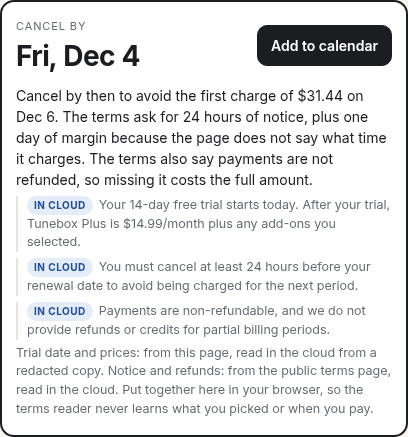
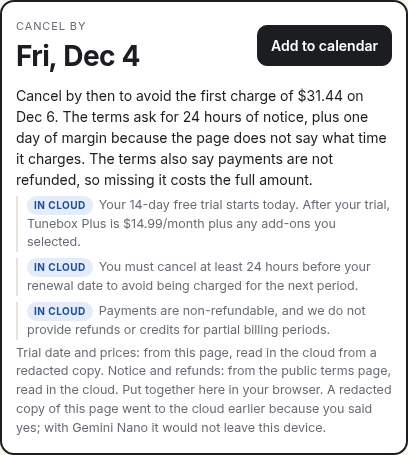
Honest hybrid wording: per-fact sources, privacy line depends on how the page was read, wider notice patterns, bills counted by date, receipt fingerprints the parts Nano read; real-page counts for the new cards

Changed region(s): [[0.0294, 0.0297, 0.9706, 0.9519], [0.6176, 0.0892, 0.9706, 0.1487]]

diff --git a/web/src/deadline.ts b/web/src/deadline.ts
@@ -6,25 +6,29 @@ import { redact } from './redact';
 // refund rule come from the public terms page. The cloud never sees the
 // checkout page, so it never learns when you will be charged or how much.
 
+// from: 'gemini' when the line is a verified quote Gemini picked, 'basic' when
+// it was found by pattern in the terms text. Set per fact.
 export interface TermsFacts {
-  notice?: { hours: number; quote: string };
-  noRefund?: { quote: string };
-  from: 'gemini' | 'basic'; // gemini: a verified quote Gemini picked; basic: found by pattern in the terms text
+  notice?: { hours: number; quote: string; from: 'gemini' | 'basic' };
+  noRefund?: { quote: string; from: 'gemini' | 'basic' };
 }
 
 const WORD_NUM: Record<string, number> = { one: 1, two: 2, three: 3, four: 4, five: 5, six: 6, seven: 7, ten: 10, fourteen: 14, thirty: 30 };
-const NOTICE = /at least (\d+|one|two|three|four|five|six|seven|ten|fourteen|thirty)\s+(business days?|days?|hours?)\s+(?:before|prior to|in advance of)/i;
+const N = '(\\d+|one|two|three|four|five|six|seven|ten|fourteen|thirty)\\s+(?:\\(\\d+\\)\\s+)?(business days?|days?|hours?)';
+// "at least 24 hours before", "no later than 3 days prior to", or "30 days' notice".
+const NOTICE = new RegExp(`(?:at least|no later than|no less than|a minimum of)\\s+${N}\\s+(?:before|prior to|in advance)|${N}['’]?s?\\s+(?:written\\s+|advance\\s+|prior\\s+)?notice`, 'i');
 const NO_REFUND = /non-?refundable|no refunds?\b|not (?:be )?refund(?:ed|able)|do not (?:provide|offer|give) refunds/i;
 
 function sentences(text: string): string[] {
   return text.split(/(?<=[.!?])\s+|\n+/).map((s) => s.trim()).filter((s) => s.length > 8 && s.length < 400);
 }
 
-function noticeIn(s: string): TermsFacts['notice'] {
+function noticeIn(s: string): { hours: number; quote: string } | undefined {
   const m = s.match(NOTICE);
   if (!m) return undefined;
-  const n = /^\d+$/.test(m[1]) ? Number(m[1]) : WORD_NUM[m[1].toLowerCase()];
-  const unit = m[2].toLowerCase();
+  const num = m[1] ?? m[3];
+  const n = /^\d+$/.test(num) ? Number(num) : WORD_NUM[num.toLowerCase()];
+  const unit = (m[2] ?? m[4]).toLowerCase();
   // Business days are counted as calendar days plus a margin, to stay safe.
   const hours = unit.startsWith('hour') ? n : unit.startsWith('business') ? Math.ceil(n * 7 / 5) * 24 : n * 24;
   return { hours, quote: s };
@@ -35,15 +39,14 @@ function noticeIn(s: string): TermsFacts['notice'] {
 export function termsFacts(termsText: string, geminiQuotes: string[]): TermsFacts {
   const page = normalize(termsText);
   const real = geminiQuotes.filter((q) => q.trim().length > 8 && page.includes(normalize(q)));
-  const pick = (list: string[]) => {
-    const notice = list.map(noticeIn).find(Boolean);
+  const pick = (list: string[], from: 'gemini' | 'basic') => {
+    const n = list.map(noticeIn).find(Boolean);
     const nr = list.find((s) => NO_REFUND.test(s));
-    return { notice, noRefund: nr ? { quote: nr } : undefined };
+    return { notice: n ? { ...n, from } : undefined, noRefund: nr ? { quote: nr, from } : undefined };
   };
-  const g = pick(real);
-  const b = pick(sentences(termsText));
-  const facts: TermsFacts = { notice: g.notice ?? b.notice, noRefund: g.noRefund ?? b.noRefund, from: g.notice || g.noRefund ? 'gemini' : 'basic' };
-  return facts;
+  const g = pick(real, 'gemini');
+  const b = pick(sentences(termsText), 'basic');
+  return { notice: g.notice ?? b.notice, noRefund: g.noRefund ?? b.noRefund };
 }
 
 // The last day to cancel. The page never says what time the charge happens,

diff --git a/web/src/panel.ts b/web/src/panel.ts
@@ -170,7 +170,7 @@ async function readOnDevice() {
       signal,
       onPart: (i, n) => { if (n > 1) status(`Long page, reading it in ${n} parts on your device: part ${i}...`); },
     }));
-    await record({ what: 'Checkout page', where: read.source === 'in_cloud' ? 'in_cloud' : 'on_device', text: pageToPrompt(current, 20000), requests, personal: current.personal });
+    await record({ what: read.parts > 1 ? `Checkout page, ${read.parts} parts` : 'Checkout page', where: read.source === 'in_cloud' ? 'in_cloud' : 'on_device', text: read.prompts.join('\n\n'), requests, personal: current.personal });
     renderLedger();
     const secs = ((performance.now() - t0) / 1000).toFixed(1);
     const where = read.source === 'in_cloud' ? 'in_cloud' : 'on_device';
@@ -473,10 +473,14 @@ function renderDeadline() {
     qs.append(b);
   };
   add(trial.quote, trial.source);
-  const termsSource = terms?.facts.from === 'gemini' ? terms.source : 'rules';
-  if (notice) add(notice.quote, termsSource);
-  if (terms?.facts.noRefund) add(terms.facts.noRefund.quote, termsSource);
-  $('dlHow').textContent = `Trial date and prices: from this page, ${WHERE_WORDS[trial.source]}. Notice and refunds: ${terms ? 'from the public terms page, read in the cloud' : 'not read yet'}. Put together here in your browser, so the terms reader never learns what you picked or when you pay.`;
+  if (notice) add(notice.quote, notice.from === 'gemini' ? terms!.source : 'rules');
+  if (terms?.facts.noRefund) add(terms.facts.noRefund.quote, terms.facts.noRefund.from === 'gemini' ? terms.source : 'rules');
+  const privacy = trial.source === 'on_device'
+    ? 'Put together here in your browser, so the cloud never saw what you picked or when you pay.'
+    : trial.source === 'in_cloud'
+      ? 'Put together here in your browser. A redacted copy of this page went to the cloud earlier because you said yes; with Gemini Nano it would not leave this device.'
+      : 'Put together here in your browser.';
+  $('dlHow').textContent = `Trial date and prices: from this page, ${WHERE_WORDS[trial.source]}. Notice and refunds: ${terms ? 'from the public terms page, read in the cloud' : 'not read yet'}. ${privacy}`;
 }
 
 function downloadIcs() {
@@ -484,7 +488,7 @@ function downloadIcs() {
   if (!trial?.convertsOn || !page) return;
   const fy = firstYear(findings, page);
   const by = cancelBy(trial.convertsOn, terms?.facts.notice);
-  const site = new URL(page.url).hostname || 'this site';
+  const site = isOurDemo(page.url) ? 'Tunebox (demo store)' : (new URL(page.url).hostname || 'this site');
   const quotes = [trial.quote, terms?.facts.notice?.quote, terms?.facts.noRefund?.quote].filter(Boolean) as string[];
   const ics = icsFor({ site, cancelBy: by, convertsOn: trial.convertsOn, firstBill: fy ? money(fy.firstBill) : (trial.amount ?? ''), quotes });
   const a = document.createElement('a');

diff --git a/web/src/hybrid.test.ts b/web/src/hybrid.test.ts
@@ -29,6 +29,12 @@ function cloudRead(): RawFinding[] {
 const termsText = () => new JSDOM(read('../public/terms.html')).window.document.body.textContent!.replace(/\s+/g, ' ');
 
 describe('first-year cost', () => {
+  it('counts only the bills inside the first 12 months', () => {
+    const page = { url: 'https://x.test/', title: 't', text: 'Your 3-month free trial starts today. After your trial, it is $10.00/month.', capturedAt: '2026-11-22T15:00:00.000Z', checkboxes: [], links: [] } as PageSnapshot;
+    const fy = firstYear(verifyFindings(ruleFindings(page), page, 'rules'), page)!;
+    expect(fy.lines[0].count).toBe(9);
+    expect(fy.total).toBe(90);
+  });
   it('reads periods from the words', () => {
     expect(periodFromText('+$3.99 each month')).toBe('month');
     expect(periodFromText('We add $2.49 to every bill')).toBe('bill');
@@ -55,15 +61,25 @@ describe('first-year cost', () => {
 });
 
 describe('cancel-by date', () => {
+  it('reads other ways of writing the notice, and not reminders', () => {
+    const t = (x: string) => termsFacts(x + ' Filler sentence to make it long enough.', []).notice?.hours;
+    expect(t('Cancel no later than 48 hours before renewal.')).toBe(48);
+    expect(t('We need 30 days\' written notice to cancel.')).toBe(720);
+    expect(t('Give three (3) business days notice.')).toBe(120);
+    expect(t('We will remind you 7 days before your trial ends.')).toBeUndefined();
+  });
   it('finds the notice and refund lines on the demo terms page', () => {
     const facts = termsFacts(termsText(), []);
     expect(facts.notice?.hours).toBe(24);
     expect(facts.noRefund?.quote).toMatch(/non-refundable/);
-    expect(facts.from).toBe('basic');
+    expect(facts.notice?.from).toBe('basic');
   });
   it('uses a quote from Gemini only if it is really on the terms page', () => {
     expect(termsFacts(termsText(), ['You must cancel at least 7 days before your renewal date.']).notice?.hours).toBe(24);
-    expect(termsFacts(termsText(), ['You must cancel at least 24 hours before your renewal date to avoid being charged for the next period.']).from).toBe('gemini');
+    const g = termsFacts(termsText(), ['You must cancel at least 24 hours before your renewal date to avoid being charged for the next period.']);
+    expect(g.notice?.from).toBe('gemini');
+    // The refund line was not quoted by Gemini, so it keeps its own label.
+    expect(g.noRefund?.from).toBe('basic');
   });
   it('keeps the notice plus one day of margin', () => {
     expect(cancelBy('2026-12-06', { hours: 24 })).toBe('2026-12-04');

diff --git a/web/src/cost.ts b/web/src/cost.ts
@@ -63,7 +63,21 @@ export function firstYear(findings: Finding[], page: PageSnapshot): FirstYear | 
   if (!base) return undefined;
   const basePeriod = periodOf(base, page);
   if (!basePeriod || basePeriod === 'once' || basePeriod === 'bill') return undefined;
-  const bills = PER_YEAR[basePeriod];
+  // Bills that fall inside the 12 months from today, starting when the trial
+  // ends (or today). A 3-month trial leaves 9 monthly bills in the first year.
+  const start = trial?.convertsOn ? new Date(trial.convertsOn + 'T12:00:00') : new Date(page.capturedAt);
+  const end = new Date(page.capturedAt); end.setFullYear(end.getFullYear() + 1);
+  const countIn = (p: Exclude<Period, 'bill' | 'once'>) => {
+    let n = 0; const d = new Date(start.getTime());
+    while (d < end && n < 60) {
+      n++;
+      if (p === 'month') d.setMonth(d.getMonth() + 1);
+      else if (p === 'year') d.setFullYear(d.getFullYear() + 1);
+      else d.setDate(d.getDate() + (p === 'week' ? 7 : 28));
+    }
+    return n;
+  };
+  const bills = countIn(basePeriod);
   const add = (f: Finding, label: string, period: Period, count: number) => {
     const amount = value(f.amount);
     lines.push({ label, quote: f.quote, amount, period, count, subtotal: Math.round(amount * count * 100) / 100, source: f.source });
@@ -83,7 +97,7 @@ export function firstYear(findings: Finding[], page: PageSnapshot): FirstYear | 
       }
       if (p === 'bill') { add(f, label, basePeriod, bills); firstBill += value(f.amount); continue; }
       if (PER_YEAR[p]) {
-        add(f, label, p, PER_YEAR[p]);
+        add(f, label, p, countIn(p));
         if (p === basePeriod) firstBill += value(f.amount);
         continue;
       }

diff --git a/web/src/ai.ts b/web/src/ai.ts
@@ -154,7 +154,7 @@ export function pageToPrompt(page: PageSnapshot, maxChars = current.max_page_cha
   return `Page: ${page.title}\n\n${clip(page.text, maxChars)}\n\nCheckboxes:\n${boxes}`;
 }
 
-export interface DeviceRead { findings: RawFinding[]; source: string; parts: number; tokens: number; exact: boolean; trimmed: boolean }
+export interface DeviceRead { findings: RawFinding[]; source: string; parts: number; tokens: number; exact: boolean; trimmed: boolean; prompts: string[] }
 
 function aborted(signal?: AbortSignal): Promise<never> {
   return new Promise((_, reject) => signal?.addEventListener('abort', () => reject(new DOMException('Stopped', 'AbortError')), { once: true }));
@@ -179,7 +179,7 @@ export async function analyzeOnDevice(
     findings.push(...parseFindings(result.response.text()));
     source = result.response.inferenceSource ?? source;
   }
-  return { findings, source, parts: plan.prompts.length, tokens: plan.budget.used, exact: plan.budget.exact, trimmed: plan.trimmed };
+  return { findings, source, parts: plan.prompts.length, tokens: plan.budget.used, exact: plan.budget.exact, trimmed: plan.trimmed, prompts: plan.prompts };
 }
 
 export interface CancelSteps {

diff --git a/README.md b/README.md
@@ -9,25 +9,27 @@ A Chrome side panel that reads a checkout page before you click the button, and 
 Live app: https://before-you-pay-9b8c6.web.app
 Demo store (fake, made for this project): https://before-you-pay-9b8c6.web.app/demo-store/
 
-## Three things you only get from a hybrid read
+## One thing only a hybrid read can do, and two that make it trustworthy
 
-The checkout page is private, so it is read on your device. The terms page is public, so the cloud reads it. Each half alone is a normal AI feature. Joining them on your device, where the cloud never sees the checkout page, is what this app does that I have not seen elsewhere.
+The checkout page is private, so it is read on your device. The terms page is public, so the cloud reads it. Each half alone is a normal AI feature. Joining them on your device, where (with Gemini Nano) the cloud never sees the checkout page, is the part I have not seen elsewhere. That join is the cancel-by date below. The first-year total and the receipt are what make it worth trusting.
 
-**1. The first-year cost, added up.** "$0.00 due today" turns into "$355.39 in your first year, plus tax" on the demo store. Every line is a verified quote from the page, the billing period is read from the words next to each price ("each month", "every bill", "one-time"), and the math is plain code ([web/src/cost.ts](web/src/cost.ts)). Click a line and the words are marked on the page. It also says what the model added: the basic check alone gets to $277.63, because it cannot see the add-on whose price sits outside its checkbox or the $2.49 that never says "fee". A page that lists several plans gets no total instead of a guess, and anything without a clear period is listed as "not added".
+The examples use the demo store with a trial started on Nov 22, so the dates move if you try it on another day.
+
+**The first-year cost, added up.** "$0.00 due today" turns into "$355.39 in your first year, plus tax" on the demo store. Every line is a verified quote from the page, the billing period is read from the words next to each price ("each month", "every bill", "one-time"), and the math is plain code ([web/src/cost.ts](web/src/cost.ts)). Click a line and the words are marked on the page. It also says what the model added: the basic check alone gets to $277.63, because it cannot see the add-on whose price sits outside its checkbox or the $2.49 that never says "fee". A page that lists several plans and no trial gets no total instead of a guess, and anything without a clear period is listed as "not added". Bills are counted by date inside the 12 months from today, so a 3-month trial leaves 9 monthly bills.
+
+On the 10 real plan pages (cloud read, same runs as the table further down), the first-year card appeared on 5 and the cancel-by card on 6. Four of the 5 totals used the price my labels give for the plan with the trial. One used a student price instead, the same mistake as in the trial row. These pages list several plans, so the total covers the plan the trial belongs to and lists the other prices as not added.
 
 ![First-year cost](docs/first-year.png)
 
-**2. Cancel by a date, not a feeling.** The trial end date and the first bill come from the checkout page. The notice period and refund rule come from the terms page. They are put together in the browser ([web/src/deadline.ts](web/src/deadline.ts)): trial ends Dec 6, the terms ask for 24 hours notice, the page never says what time it charges, so the panel says **cancel by Fri, Dec 4**, the first charge would be $31.44, and the terms say payments are not refunded. The notice and refund lines only count if they are really on the terms page: Gemini's quotes are checked first, and if Gemini did not quote them, the terms text is searched in code (labeled BASIC CHECK). **Add to calendar** builds an .ics file in the browser with the quotes in it. Nothing is sent to make it.
+**The hybrid join: cancel by a date, not a feeling.** The trial end date and the first bill come from the checkout page. The notice period and refund rule come from the terms page. They are put together in the browser ([web/src/deadline.ts](web/src/deadline.ts)): trial ends Dec 6, the terms ask for 24 hours notice, the page never says what time it charges, so the panel says **cancel by Fri, Dec 4**, the first charge would be $31.44, and the terms say payments are not refunded. The notice and refund lines only count if they are really on the terms page: Gemini's quotes are checked first, and if Gemini did not quote one of them, the terms text is searched in code and that line is labeled BASIC CHECK. **Add to calendar** builds an .ics file in the browser with the quotes in it. Nothing is sent to make it.
 
 ![Cancel by](docs/cancel-by.png)
 
-**3. A receipt for what left your device.** Every read in the tab is listed with its mode, its size and a SHA-256 fingerprint. Cloud rows show the exact text that was sent, with what redaction removed marked in red, so you can see "[email]" and "[card ending]" where your details were. Each row also counts requests to the Gemini API made during that read, measured by the page itself with the browser's resource timing list ([web/src/receipt.ts](web/src/receipt.ts)). That is what the page can see, not a network capture, and the panel says so. With Nano the checkout row reads "Requests to Gemini during this read: 0".
+**A receipt for what left your device.** Every read in the tab is listed with its mode, its size and a SHA-256 fingerprint. Cloud rows show the exact text that was sent, with what redaction removed marked in red, so you can see "[email]" and "[card ending]" where your details were. Each row also counts requests to the Gemini API made during that read, measured by the page itself with the browser's resource timing list ([web/src/receipt.ts](web/src/receipt.ts)). That is what the page can see, not a network capture, and the panel says so. For an on-device read the checkout row should say "Requests to Gemini during this read: 0". That number is a sanity check, not a proof: `ONLY_ON_DEVICE` never calls the cloud by design, and the page can only count requests it can see. The Wi-Fi off test is the stronger proof. I have only seen that row from the stand-in run below, so it is not pictured here; a real one comes from the laptop.
 
-| A cloud read of a redacted copy | The on-device row (stand-in for Nano, see below) |
-|---|---|
-| ![Receipt, cloud](docs/receipt-cloud.png) | ![Receipt, on device stand-in](docs/receipt-offline-stub.png) |
+![Receipt, cloud](docs/receipt-cloud.png)
 
-The screenshots of the cost and cancel-by cards come from fresh cloud reads (redacted copy plus terms) on my machine. The on-device row comes from the stand-in run described in the next section, not from real Nano.
+All three screenshots in this section come from fresh cloud reads on my machine: a redacted copy of the checkout page (I said yes to sending it) plus the terms page. So in these pictures the prices were read in the cloud, and the panel says so under the cancel-by card. With Gemini Nano the checkout half stays on the device.
 
 ![The hosted demo with the store open](docs/hosted-wow.png)
 
